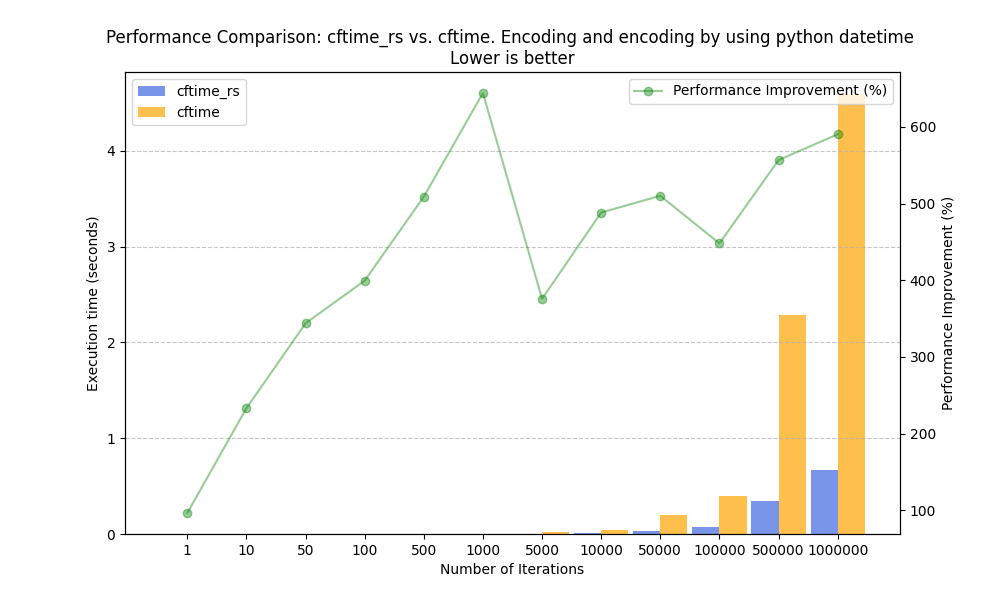
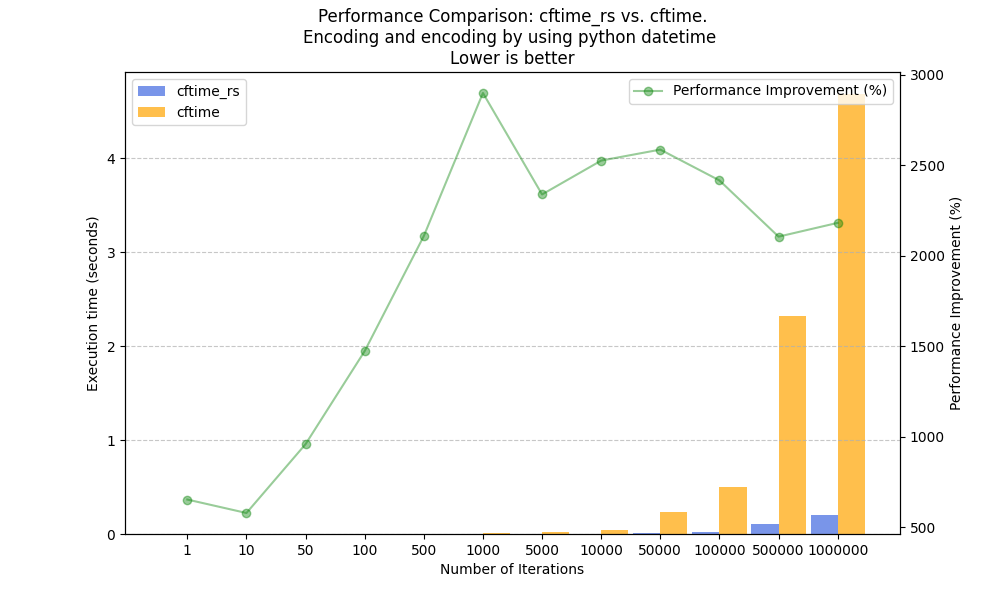
feat: Add new benchmark and reference to cftime

diff --git a/benchmark/cf_time_comparison.py b/benchmark/cf_time_comparison.py
@@ -90,6 +90,7 @@ def cftime_benchmark(arr: np.array) -> float:
 def get_data_with_str() -> Tuple[List[float], List[float]]:
     cftime_rs_times = []
     cftime_times = []
+    print("cftime_rs_benchmark_with_str")
     for n in ITERATIONS:
         print(f"Number of Iterations with str: {n}")
         arr = np.array(range(n))
@@ -98,6 +99,8 @@ def get_data_with_str() -> Tuple[List[float], List[float]]:
         cftime_rs_times.append(cftime_rs_duration)
         cftime_duration = cftime_benchmark(arr)
         cftime_times.append(cftime_duration)
+        print(f"cftime_rs : {cftime_rs_duration:.4f} seconds")
+        print(f"cftime    : {cftime_duration:.4f} seconds")
     return cftime_rs_times, cftime_times
 
 
@@ -121,6 +124,7 @@ def get_data_without_str() -> Tuple[List[float], List[float]]:
     cftime_rs_times = []
     cftime_times = []
     for n in ITERATIONS:
+        print("cftime_rs_benchmark_without_str")
         print(f"Number of Iterations with str: {n}")
         arr = np.array(range(n))
 
@@ -128,6 +132,8 @@ def get_data_without_str() -> Tuple[List[float], List[float]]:
         cftime_rs_times.append(cftime_rs_duration)
         cftime_duration = cftime_benchmark_without_str(arr)
         cftime_times.append(cftime_duration)
+        print(f"cftime_rs : {cftime_rs_duration:.4f} seconds")
+        print(f"cftime    : {cftime_duration:.4f} seconds")
     return cftime_rs_times, cftime_times
 
 
@@ -150,6 +156,7 @@ def cftime_benchmark_pydatetime_without_str(arr: np.array) -> float:
 def get_data_pydatetime_without_str() -> Tuple[List[float], List[float]]:
     cftime_rs_times = []
     cftime_times = []
+    print("cftime_rs_benchmark_pydatetime_without_str")
     for n in ITERATIONS:
         print(f"Number of Iterations with str: {n}")
         arr = np.array(range(n))
@@ -158,6 +165,8 @@ def get_data_pydatetime_without_str() -> Tuple[List[float], List[float]]:
         cftime_rs_times.append(cftime_rs_duration)
         cftime_duration = cftime_benchmark_without_str(arr)
         cftime_times.append(cftime_duration)
+        print(f"cftime_rs : {cftime_rs_duration:.4f} seconds")
+        print(f"cftime    : {cftime_duration:.4f} seconds")
     return cftime_rs_times, cftime_times
 
 
@@ -166,20 +175,20 @@ if __name__ == "__main__":
     performance_comparison_chart(
         cftime_rs_times,
         cftime_times,
-        title="Performance Comparison: cftime_rs vs. cftime. Encoding, calling __str__ and encoding. \nLower is better",
+        title="Performance Comparison: cftime_rs vs. cftime.\nEncoding, calling __str__ and encoding. \nLower is better",
         output_file="performance_comparison_with_str.png",
     )
     cftime_rs_times, cftime_times = get_data_without_str()
     performance_comparison_chart(
         cftime_rs_times,
         cftime_times,
-        title="Performance Comparison: cftime_rs vs. cftime. Encoding and encoding. \nLower is better",
+        title="Performance Comparison: cftime_rs vs. cftime./nEncoding and encoding. \nLower is better",
         output_file="performance_comparison_without_str.png",
     )
     cftime_rs_times, cftime_times = get_data_pydatetime_without_str()
     performance_comparison_chart(
         cftime_rs_times,
         cftime_times,
-        title="Performance Comparison: cftime_rs vs. cftime. Encoding and encoding by using python datetime \nLower is better",
+        title="Performance Comparison: cftime_rs vs. cftime.\nEncoding and encoding by using python datetime \nLower is better",
         output_file="performance_comparison_pydatetime_without_str.png",
     )

diff --git a/README.md b/README.md
@@ -1,6 +1,6 @@
 # `cftime-rs`
 
-`cftime-rs` is an implementation in `rust` of the [cf time](https://cfconventions.org/Data/cf-conventions/cf-conventions-1.10/cf-conventions.html#time-coordinate) convention. Python bindins are available for this project. 
+`cftime-rs` is an implementation in `rust` of the [cf time](https://cfconventions.org/Data/cf-conventions/cf-conventions-1.10/cf-conventions.html#time-coordinate) convention. Python bindins are available for this project and use the great [maturin library](https://www.maturin.rs/). The python bindings are highly inspired by the [cftime](https://github.com/Unidata/cftime/tree/master) python package developped by [Unidata](https://github.com/Unidata). 
 
 <p align="center">
     <a href="https://github.com/antscloud/cftime-rs/actions">
@@ -259,9 +259,13 @@ Here is an example of the computation of 1_000_000_000_000_000 seconds using the
 
 ## Comparison with cftime
 
-Here is a benchmark on my computer of two methods. This is not really rigorous but this is to give an idea.  
+Here is a benchmark on my computer of three methods. This is not really rigorous but this is to give an idea.  
 
-We are comparing cftime with cftime_rs. The first method involves decoding a series of numbers using the standard calendar, calling the .str() method, and then re-encoding them to the same unit and calendar. The second method is to decode a series of numbers using the standard calendar and re-encode them to the same unit and calendar without calling .str(). Both methods are designed to be fair between the two libraries because cftime_rs only uses timestamps (i64) as its internal representation and never recalculates the year, month, day, hour, minutes, and seconds, except if you explicitly request this representation.
+We are comparing cftime with cftime_rs. The first method involves decoding a series of numbers using the standard calendar, calling the .str() method, and then re-encoding them to the same unit and calendar. 
+The second method is to decode a series of numbers using the standard calendar and re-encode them to the same unit and calendar without calling .str().
+The third method is to decode a series of numbers using the standard calendar into python datetimes and re-encode them to the same unit and calendar without calling .str(). 
+
+First and second methods are designed to be fair between the two libraries because cftime_rs only uses timestamps (i64) as its internal representation and never recalculates the year, month, day, hour, minutes, and seconds, except if you explicitly request this representation.
 
 
 <div style="display: flex; align-items: center; justify-content: center">
@@ -269,3 +273,6 @@ We are comparing cftime with cftime_rs. The first method involves decoding a ser
     <img src="./benchmark/performance_comparison_without_str.png" alt="Second method" width="45%">
 </div>
 
+<div style="display: flex; align-items: center; justify-content: center">
+    <img src="./benchmark/performance_comparison_pydatetime_without_str.png" alt="First method" width="45%">
+</div>
